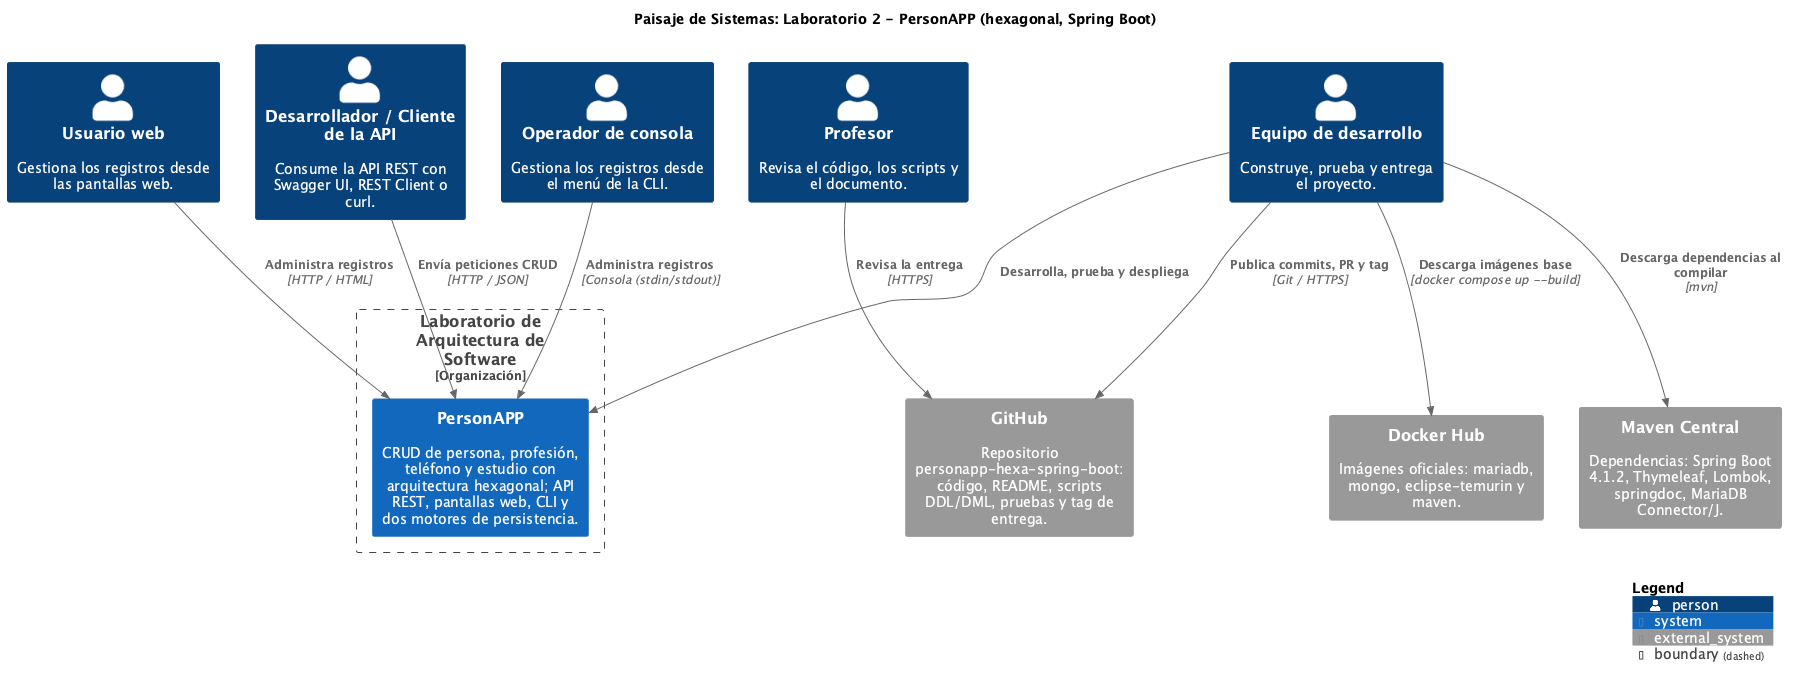
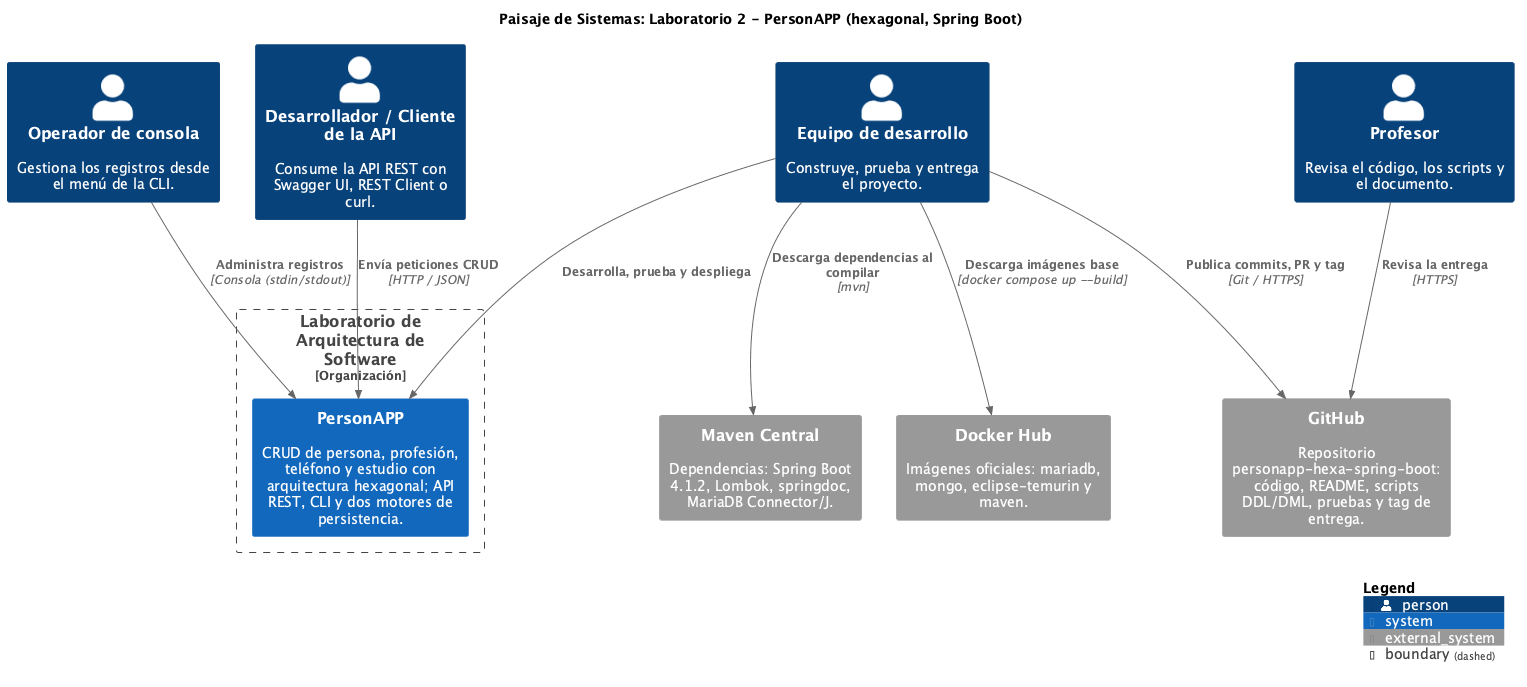
Revierte diagramas C4 a versión sin pantallas web
Los diagramas vuelven a mostrar solo la CLI y la API REST, como se pidió.

diff --git a/docs/diagramas/LEEME.md b/docs/diagramas/LEEME.md
@@ -5,12 +5,12 @@ Para regenerar: `plantuml -tsvg -tpng <archivo>.puml` (requiere internet para de
 
 | Archivo | Nivel | Qué muestra |
 |---|---|---|
-| 01_paisaje | Paisaje | Quién usa el sistema (consola, pantallas web, API) y qué sistemas externos intervienen |
-| 02_contexto | 1 · Contexto | Operador de consola, usuario web, cliente de la API y el sistema |
-| 03_contenedores | 2 · Contenedores | API REST con pantallas web, CLI, MariaDB, MongoDB y mongo-init dentro de Docker Compose |
-| 04_componentes | 3 · Componentes | Controladores REST, pantallas web, adaptadores, casos de uso, puertos y adaptadores de salida (hexagonal) |
+| 01_paisaje | Paisaje | Quién usa el sistema y qué sistemas externos intervienen |
+| 02_contexto | 1 · Contexto | Operador de consola, cliente de la API y el sistema |
+| 03_contenedores | 2 · Contenedores | API, CLI, MariaDB, MongoDB y mongo-init dentro de Docker Compose |
+| 04_componentes | 3 · Componentes | Controladores, adaptadores, casos de uso, puertos y adaptadores de salida (hexagonal) |
 | 05_codigo | 4 · Código | Clases principales del flujo de Persona |
 | 06a_dinamico_crear_persona_api | Dinámico | POST /api/v1/persona en MariaDB, con validación de duplicados |
 | 06b_dinamico_eliminar_persona_mongo | Dinámico | DELETE en MongoDB con borrado en cascada de estudios y teléfonos |
-| 07_despliegue | Despliegue | Docker Desktop en macOS, red de Compose, contenedores, volúmenes y acceso a las pantallas web |
-| 08_arquitectura_capas | Capas | Entrada (CLI, pantallas web, API REST), núcleo y salida; la regla de dependencia hacia el núcleo |
+| 07_despliegue | Despliegue | Docker Desktop en macOS, red de Compose, contenedores y volúmenes |
+| 08_arquitectura_capas | Capas | Entrada, núcleo y salida; la regla de dependencia hacia el núcleo |
